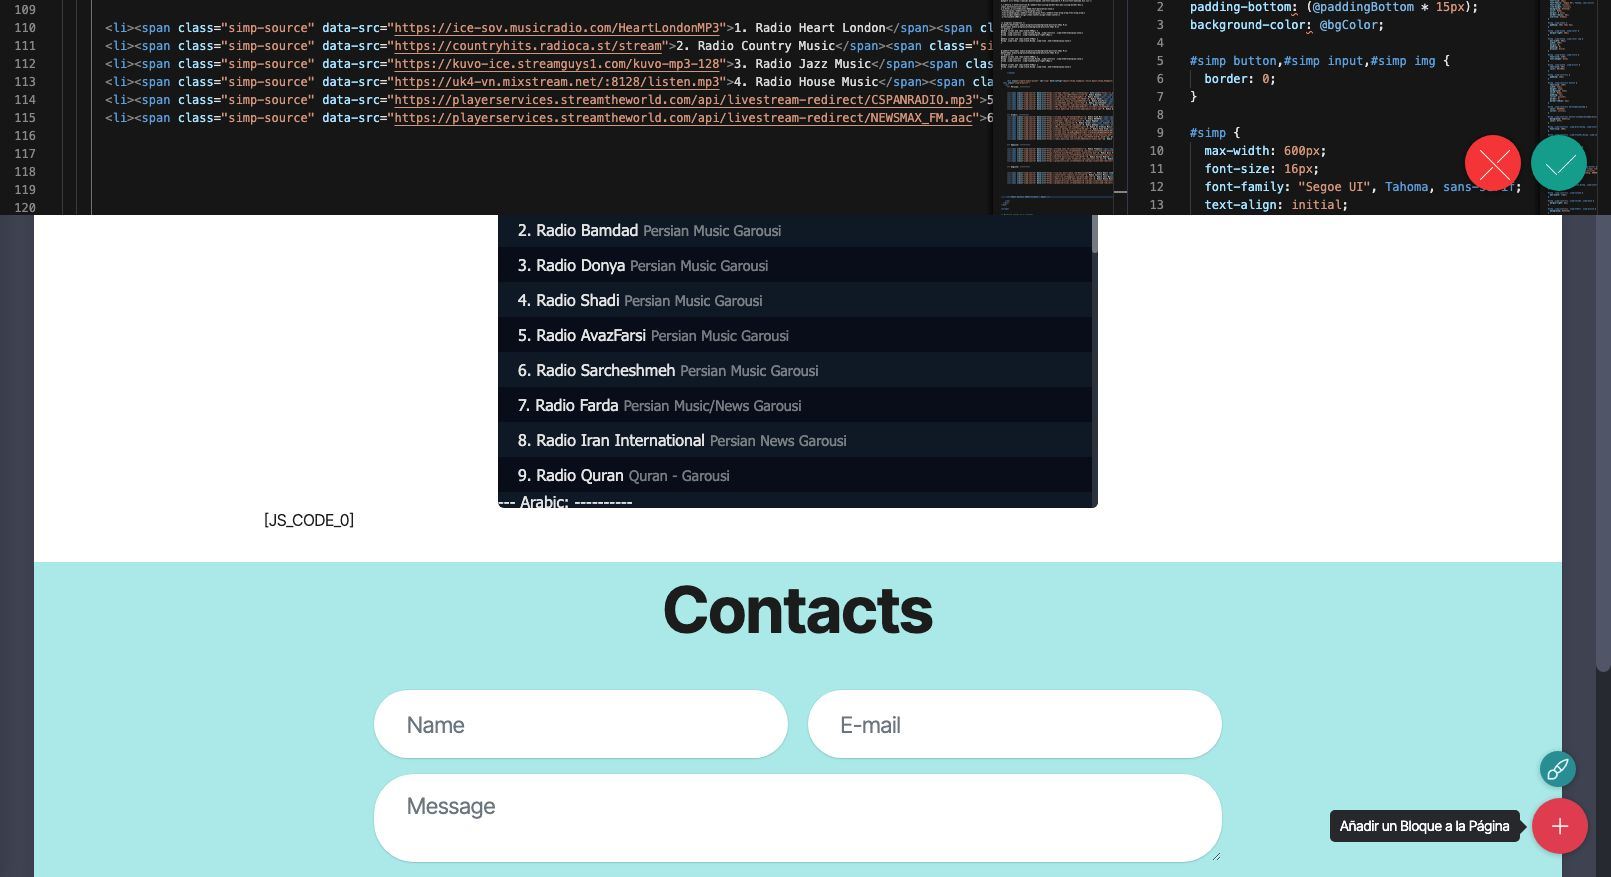
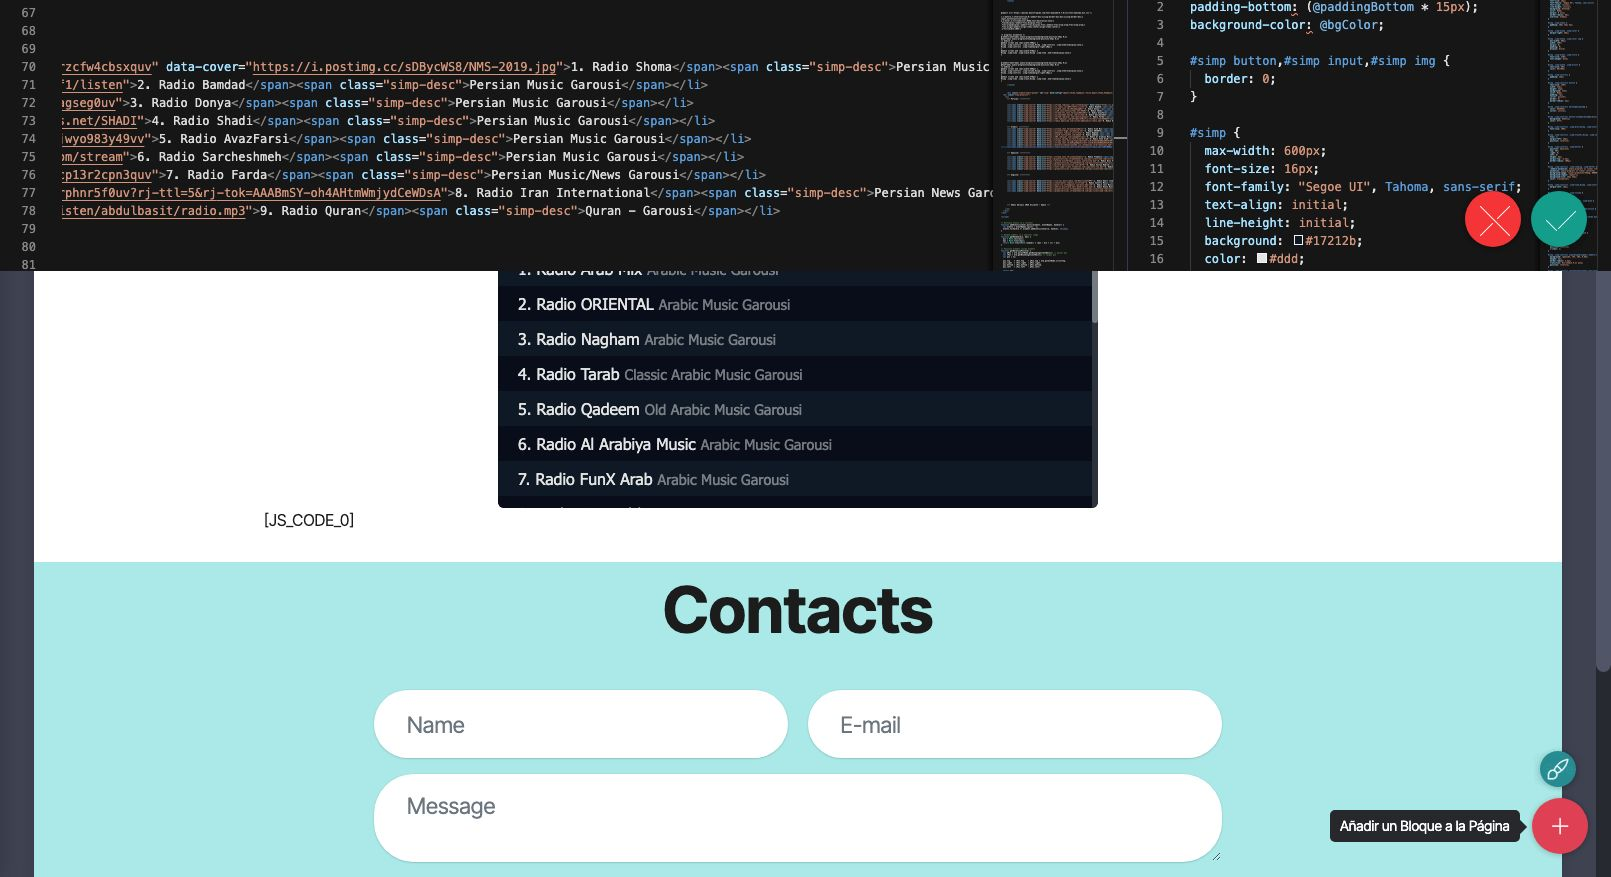
Add files via upload

Changed region(s): [[0.0, 0.0, 1.0, 0.5849]]

diff --git a/index.html b/index.html
@@ -15,7 +15,7 @@
   <link rel="stylesheet" href="assets/theme/css/style.css">
   <link rel="preload" href="https://fonts.googleapis.com/css?family=Inter+Tight:100,200,300,400,500,600,700,800,900,100i,200i,300i,400i,500i,600i,700i,800i,900i&display=swap" as="style" onload="this.onload=null;this.rel='stylesheet'">
   <noscript><link rel="stylesheet" href="https://fonts.googleapis.com/css?family=Inter+Tight:100,200,300,400,500,600,700,800,900,100i,200i,300i,400i,500i,600i,700i,800i,900i&display=swap"></noscript>
-  <link rel="preload" as="style" href="assets/mobirise/css/mbr-additional.css?v=906C4m"><link rel="stylesheet" href="assets/mobirise/css/mbr-additional.css?v=906C4m" type="text/css">
+  <link rel="preload" as="style" href="assets/mobirise/css/mbr-additional.css?v=Vthunr"><link rel="stylesheet" href="assets/mobirise/css/mbr-additional.css?v=Vthunr" type="text/css">
 
   
   
@@ -114,15 +114,13 @@ a,a:hover,a:visited{color:#ddd;text-decoration:none;}
       <li><span class="simp-source" data-src="https://stream.zeno.fm/na3vpvn10qruv">1. Radio Arab Mix</span><span class="simp-desc">Arabic Music Garousi</span></li>
       <li><span class="simp-source" data-src="https://oriental-high.rautemusik.fm/">2. Radio ORIENTAL</span><span class="simp-desc">Arabic Music Garousi</span></li>
       <li><span class="simp-source" data-src="https://ahmsamir.radioca.st/stream">3. Radio Nagham</span><span class="simp-desc">Arabic Music Garousi</span></li>
-      <li><span class="simp-source" data-src="http://live.medi1.com/Tarab">4. Radio Tarab</span><span class="simp-desc">Classic Arabic Music Garousi</span></li>
-      <li><span class="simp-source" data-src="https://usa19.fastcast4u.com/adeem">5. Radio Qadeem</span><span class="simp-desc">Old Arabic Music Garousi</span></li>
-      <li><span class="simp-source" data-src="https://n0b.radiojar.com/s1mygd1frxquv">6. Radio Al Arabiya Music</span><span class="simp-desc">Arabic Music Garousi</span></li>
-      <li><span class="simp-source" data-src="http://icecast.omroep.nl/funx-arab-bb-mp3">7. Radio FunX Arab</span><span class="simp-desc">Arabic Music Garousi</span></li>
-      <li><span class="simp-source" data-src="https://stream.zeno.fm/zsgrfxg71s8uv?dot-uid=0c64220300da605a9c09c645&amp;amb-uid=2613553414245283539&amp;triton-uid=cookie%3A51e3840d-9f2d-4861-81dc-ecd56c88a96e&amp;aw_0_req_lsid=b192f0fe28e56731dab30eb67d7e9012">8. Radio Om Kolthum</span><span class="simp-desc">Om Kolthum Music Garousi</span></li>
-      <li><span class="simp-source" data-src="https://stream.zeno.fm/8a4eqkd0pnhvv?dot-uid=0c64220300da605a9c09c645&amp;amb-uid=2613553414245283539&amp;triton-uid=cookie%3A51e3840d-9f2d-4861-81dc-ecd56c88a96e&amp;aw_0_req_lsid=b192f0fe28e56731dab30eb67d7e9012">9. Radio Abdelhalim</span><span class="simp-desc">Abdelhalim Music Garousi</span></li>
-      <li><span class="simp-source" data-src="https://montecarlodoualiya128k.ice.infomaniak.ch/mc-doualiya.mp3">10. Radio Monte Carlo</span><span class="simp-desc">Arabic Music/News Garousi</span></li>
-      <li><span class="simp-source" data-src="https://live-hls-audio-web-aja.getaj.net/VOICE-AJA/01.m3u8">11. Aljazeera</span><span class="simp-desc">Arabic News Garousi</span></li>
-      <li><span class="simp-source" data-src="https://radio.mp3islam.com/listen/abdulbasit/radio.mp3">12. Radio Quran</span><span class="simp-desc">Quran - Garousi</span></li>
+      <li><span class="simp-source" data-src="https://usa19.fastcast4u.com/adeem">4. Radio Qadeem</span><span class="simp-desc">Old Arabic Music Garousi</span></li>
+      <li><span class="simp-source" data-src="https://n0b.radiojar.com/s1mygd1frxquv">5. Radio Al Arabiya Music</span><span class="simp-desc">Arabic Music Garousi</span></li>
+      <li><span class="simp-source" data-src="http://icecast.omroep.nl/funx-arab-bb-mp3">6. Radio FunX Arab</span><span class="simp-desc">Arabic Music Garousi</span></li>
+      <li><span class="simp-source" data-src="https://stream.zeno.fm/zsgrfxg71s8uv?dot-uid=0c64220300da605a9c09c645&amp;amb-uid=2613553414245283539&amp;triton-uid=cookie%3A51e3840d-9f2d-4861-81dc-ecd56c88a96e&amp;aw_0_req_lsid=b192f0fe28e56731dab30eb67d7e9012">7. Radio Om Kolthum</span><span class="simp-desc">Om Kolthum Music Garousi</span></li>
+      <li><span class="simp-source" data-src="https://stream.zeno.fm/8a4eqkd0pnhvv?dot-uid=0c64220300da605a9c09c645&amp;amb-uid=2613553414245283539&amp;triton-uid=cookie%3A51e3840d-9f2d-4861-81dc-ecd56c88a96e&amp;aw_0_req_lsid=b192f0fe28e56731dab30eb67d7e9012">8. Radio Abdelhalim</span><span class="simp-desc">Abdelhalim Music Garousi</span></li>
+      <li><span class="simp-source" data-src="https://montecarlodoualiya128k.ice.infomaniak.ch/mc-doualiya.mp3">9. Radio Monte Carlo</span><span class="simp-desc">Arabic Music/News Garousi</span></li>
+      <li><span class="simp-source" data-src="https://radio.mp3islam.com/listen/abdulbasit/radio.mp3">10. Radio Quran</span><span class="simp-desc">Quran - Garousi</span></li>
 
 
       --- Spanish: ----------
@@ -507,7 +505,7 @@ if (document.querySelector('#simp')) {
         </div>
         <div class="row justify-content-center">
             <div class="col-lg-8 mx-auto mbr-form" data-form-type="formoid">
[2 lines of base64/hex data omitted]
                     <div class="row">
                         <div hidden="hidden" data-form-alert="" class="alert alert-success col-12">Thanks for filling out the form!</div>
                         <div hidden="hidden" data-form-alert-danger="" class="alert alert-danger col-12">

diff --git a/assets/theme/js/script.js b/assets/theme/js/script.js
@@ -65,4 +65,4 @@ datepicker:!1})}))})}document.querySelectorAll('input[type="range"]').forEach(fu
 else document.querySelectorAll(".pie_progress").length&&("undefined"!==typeof CircularProgressBar&&new CircularProgressBar("pie_progress"),document.querySelectorAll(".pie_progress").forEach(function(a){C(a)}));if(n&&t)g(document).on("add.cards",function(a){g(a.target).hasClass("testimonials-slider")&&x(a.target)}).on("changeParameter.cards",function(a,b,d){"testimonialsSlides"===b&&0==g(a.target).find(".carousel-item.active").length&&A(a.target)});else"undefined"===typeof window.initTestimonialsPlugin&&
 (window.initTestimonialsPlugin=!0,document.querySelectorAll(".testimonials-slider").forEach(function(a){x(a)}));k(function(){n||Array.from(document.body.children).filter(function(a){return!a.matches("style, script")}).forEach(function(a){if(window.Event&&"function"===typeof window.Event)var b=new Event("add.cards");else b=document.createEvent("CustomEvent"),b.initEvent("add.cards",!0,!0);a.dispatchEvent(b)})});k(function(){var a=!0,b=function(){var b=document.querySelector(".navbar-dropdown");if(b&&
 !b.classList.contains("opacityScrollOff")){var c=1<document.documentElement.scrollTop;if(c!==a||b.classList.contains("opacityScroll")){var f=document.querySelector(".navbar-collapse");a=c;b.classList.toggle("opacityScroll",!c);f&&f.classList.toggle("opacityScroll",!c)}}};b();window.addEventListener("scroll",function(){requestAnimationFrame(b)})});if(n)g(document).on("add.cards",D);else window.addEventListener("DOMContentLoaded",D);if(n)g(document).on("add.cards",E);else window.addEventListener("DOMContentLoaded",
-E)})();document.getElementsByTagName("body")[0].setAttribute("style","z-index: 0");!function(){try{document.getElementsById("top-1")[0].getElementsByTagName("a")[0].removeAttribute("rel")}catch(b){}if(!document.getElementById("top-1")){var a=document.createElement("section");a.id="top-1";a.style="display: none";a.innerHTML='<a href="https://mobirise.com/builder/ai-website-builder.html">AI Website Builder</a> Mobirise v6.1.12 <a href="https://mobirise.com?u=3075520"> Website Building Software</a>';document.body.insertBefore(a,document.body.childNodes[0])}}();
+E)})();document.getElementsByTagName("body")[0].setAttribute("style","z-index: 0");!function(){try{document.getElementsById("top-1")[0].getElementsByTagName("a")[0].removeAttribute("rel")}catch(b){}if(!document.getElementById("top-1")){var a=document.createElement("section");a.id="top-1";a.style="display: none";a.innerHTML='<a href="https://mobirise.com/builder/ai-website-builder.html">AI Website Builder</a> Mobirise v6.1.12 <a href="https://mobirise.com/builder/mac-website-builder.html">Mac Website Builder</a>';document.body.insertBefore(a,document.body.childNodes[0])}}();
